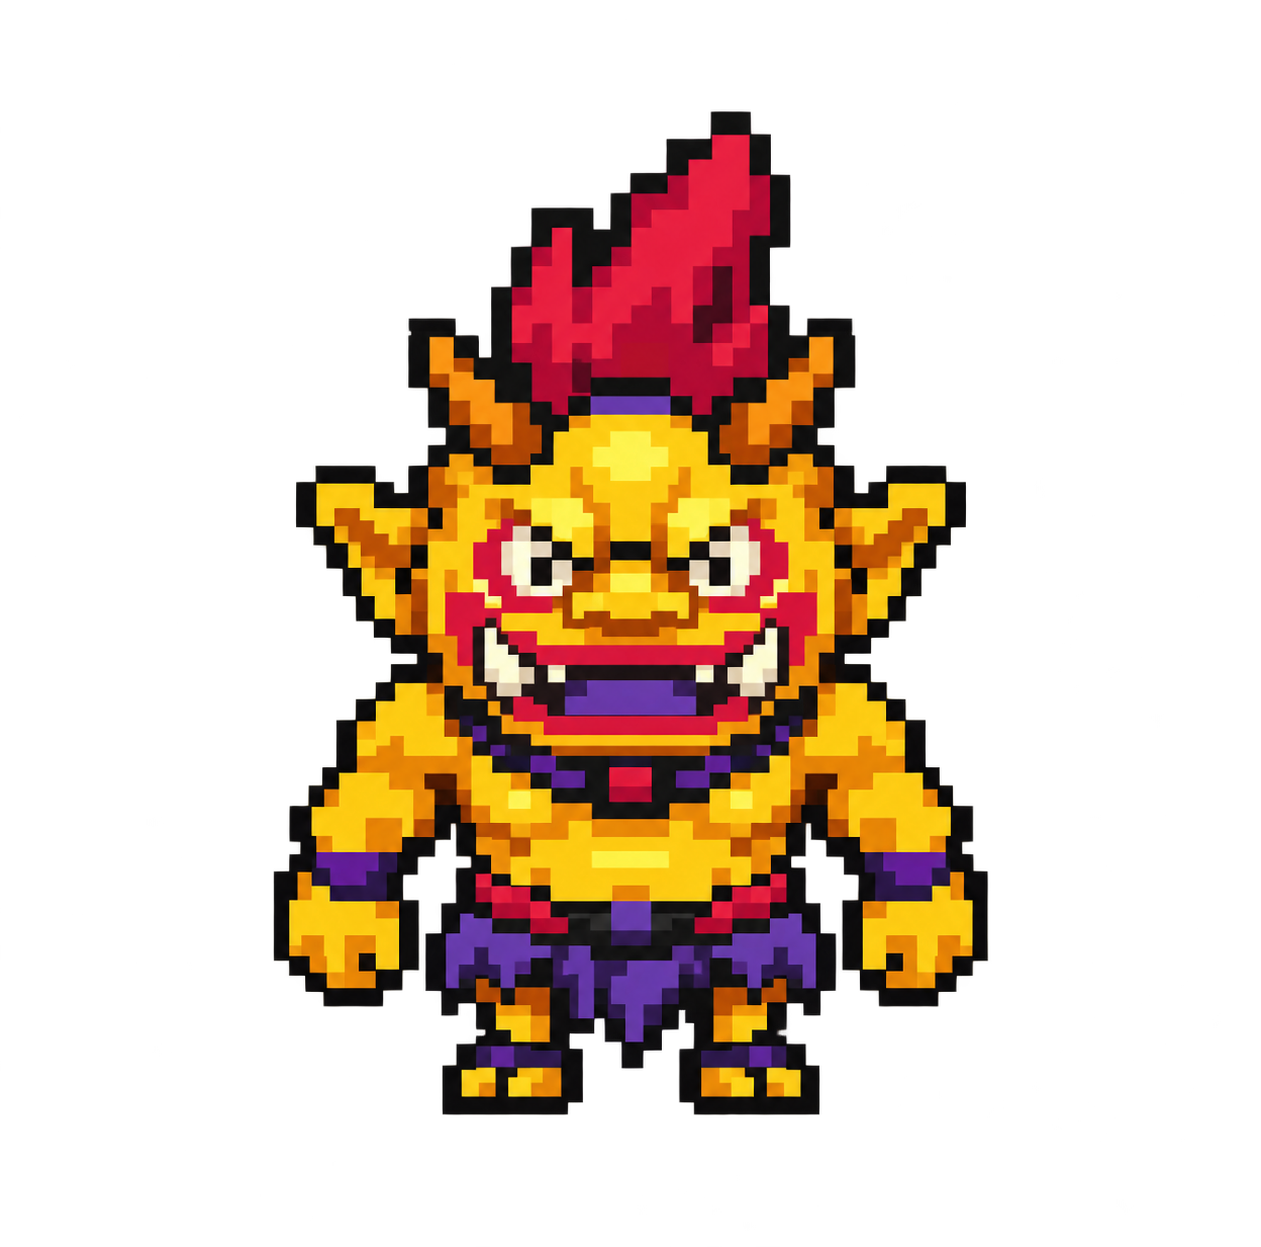
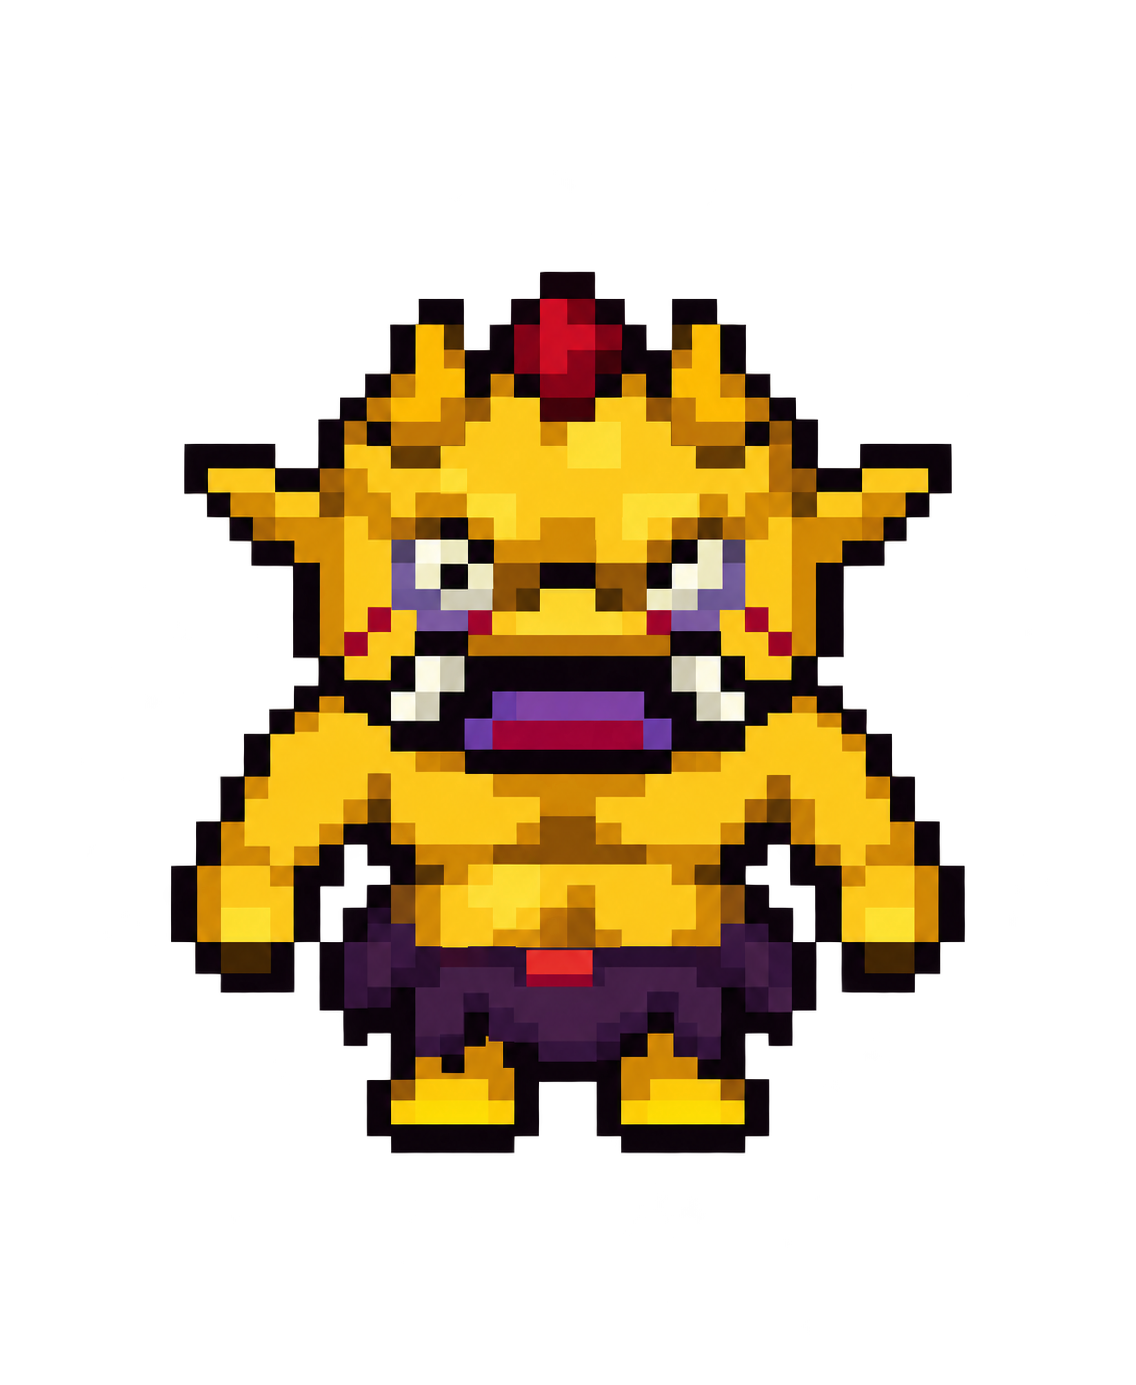
fix: reprendre Gorgouille dans le gabarit trapu des autres oni

diff --git a/tools/yokai/convertir_gorgouille_statique.py b/tools/yokai/convertir_gorgouille_statique.py
@@ -6,13 +6,22 @@ import json,hashlib
 R=Path(__file__).resolve().parents[2];D=R/'graphics/yokai_characters/gorgouille_statique';P=R/'docs/gorgouille-face-20261025';P.mkdir(exist_ok=True)
 src=D/'source/face-generee.png';im=Image.open(src).convert('RGBA');im.putalpha(im.getchannel('A').point(lambda a:255 if a>=128 else 0));source_bounds=im.getbbox();im=im.crop(source_bounds)
 ref=Image.open(R/'graphics/yokai_characters/gargaros/overworld.png').convert('RGBA').crop((32,0,64,32)).getbbox();h=ref[3]-ref[1]
-im=im.resize((round(im.width*h/im.height),h),Image.Resampling.NEAREST);im=im.crop(im.getbbox())
-if im.height!=h:im=im.resize((im.width,h),Image.Resampling.NEAREST)
+width=ref[2]-ref[0]
+im=im.resize((width,h),Image.Resampling.NEAREST);im=im.crop(im.getbbox())
+if im.size!=(width,h):im=im.resize((width,h),Image.Resampling.NEAREST)
 colors=[(0,0,0),(16,8,16),(72,32,8),(128,64,0),(184,104,0),(232,144,0),(248,192,8),(248,224,48),(248,248,128),(120,0,32),(200,8,48),(248,32,72),(56,24,88),(112,48,152),(168,96,192),(248,240,192)]
 flat=[v for c in colors for v in c]+[0]*720;small=Image.new('P',im.size);small.putpalette(flat);small.putdata([0 if a<128 else min(range(1,16),key=lambda i:sum((v-colors[i][k])**2 for k,v in enumerate((r,g,b)))) for r,g,b,a in im.get_flattened_data()])
 frame=Image.new('P',(32,32));frame.putpalette(flat);frame.info['transparency']=0;frame.paste(small,((32-im.width)//2,ref[3]-h))
-b=frame.convert('RGBA').getbbox();assert b[1]==ref[1] and b[3]==ref[3] and max(frame.tobytes())<16
+b=frame.convert('RGBA').getbbox();assert b==ref and max(frame.tobytes())<16
 frame.save(D/'overworld.png',transparency=0);frame.save(P/'gorgouille-face.png',transparency=0);frame.convert('RGBA').resize((256,256),Image.Resampling.NEAREST).save(P/'gorgouille-face-x8.png')
 (D/'normal.pal').write_text('JASC-PAL\n0100\n16\n'+'\n'.join(' '.join(map(str,c)) for c in colors)+'\n')
-(D/'CONVERSION.json').write_text(json.dumps(dict(source_sha256=hashlib.sha256(src.read_bytes()).hexdigest(),source_bounds=source_bounds,frame_size=[32,32],visible_height=h,baseline=ref[3],visible_bounds=b,poses=1,direction='face',existing_playable_assets_changed=False),indent=2)+'\n')
+(D/'CONVERSION.json').write_text(json.dumps(dict(source_sha256=hashlib.sha256(src.read_bytes()).hexdigest(),source_bounds=source_bounds,frame_size=[32,32],visible_height=h,visible_width=width,baseline=ref[3],reference_bounds=ref,visible_bounds=b,poses=1,direction='face',existing_playable_assets_changed=False),indent=2)+'\n')
 print('PASS one static front frame, transparent, 22px high like Gargaros')
+
+# Same-scale comparison; these are asset cells, not a claimed game screenshot.
+comparison=Image.new('RGBA',(128,32))
+for i,actor in enumerate(('gargaros','ogralos_sans_massue','orqanos_sans_massue')):
+ sprite=Image.open(R/f'graphics/yokai_characters/{actor}/overworld.png').convert('RGBA').crop((32,0,64,32))
+ comparison.paste(sprite,(i*32,0))
+comparison.paste(frame.convert('RGBA'),(96,0))
+comparison.resize((768,192),Image.Resampling.NEAREST).save(P/'comparaison-quatre-oni-x6.png')

diff --git a/docs/gorgouille-face-20261025/RAPPORT.md b/docs/gorgouille-face-20261025/RAPPORT.md
@@ -5,3 +5,9 @@
 Une seule pose de face, sans massue, dans le même gabarit natif que les autres oni : case de 32 × 32 pixels, silhouette de 22 pixels et même ligne de pieds. Corps doré, crête rouge, détails violets et défenses claires issus de la référence du chat.
 
 Source générée conservée et conversion reproductible par `python tools/yokai/convertir_gorgouille_statique.py` : recadrage, réduction au plus proche voisin et palette de quinze couleurs plus transparence. Hauteur, base, transparence et indices de palette vérifiés. Il s'agit d'une nouvelle ressource overworld : les graphismes de combat, les statistiques et le statut jouable de Gorgouille restent inchangés. Aucun événement ajouté, aucune nouvelle ROM publiée ni fusion sur master.
+
+## Gabarit corrigé
+
+La première silhouette était trop élancée. Le dessin a été repris sur la pose de repos de face de Gargaros : tête large, torse court, bras épais et petites jambes, avec une crête rouge compacte. L'emprise visible est maintenant exactement celle de cette pose de Gargaros : 18 × 22 pixels, du point (7,9) au point (25,31) exclu, à l'intérieur de la case 32 × 32. Une seule pose, sans massue.
+
+[Comparaison des quatre oni à la même échelle](comparaison-quatre-oni-x6.png), de gauche à droite : Gargaros, Ogralos, Orqanos, Gorgouille. Cette planche compare les assets natifs ; aucune capture en jeu n'est revendiquée.
